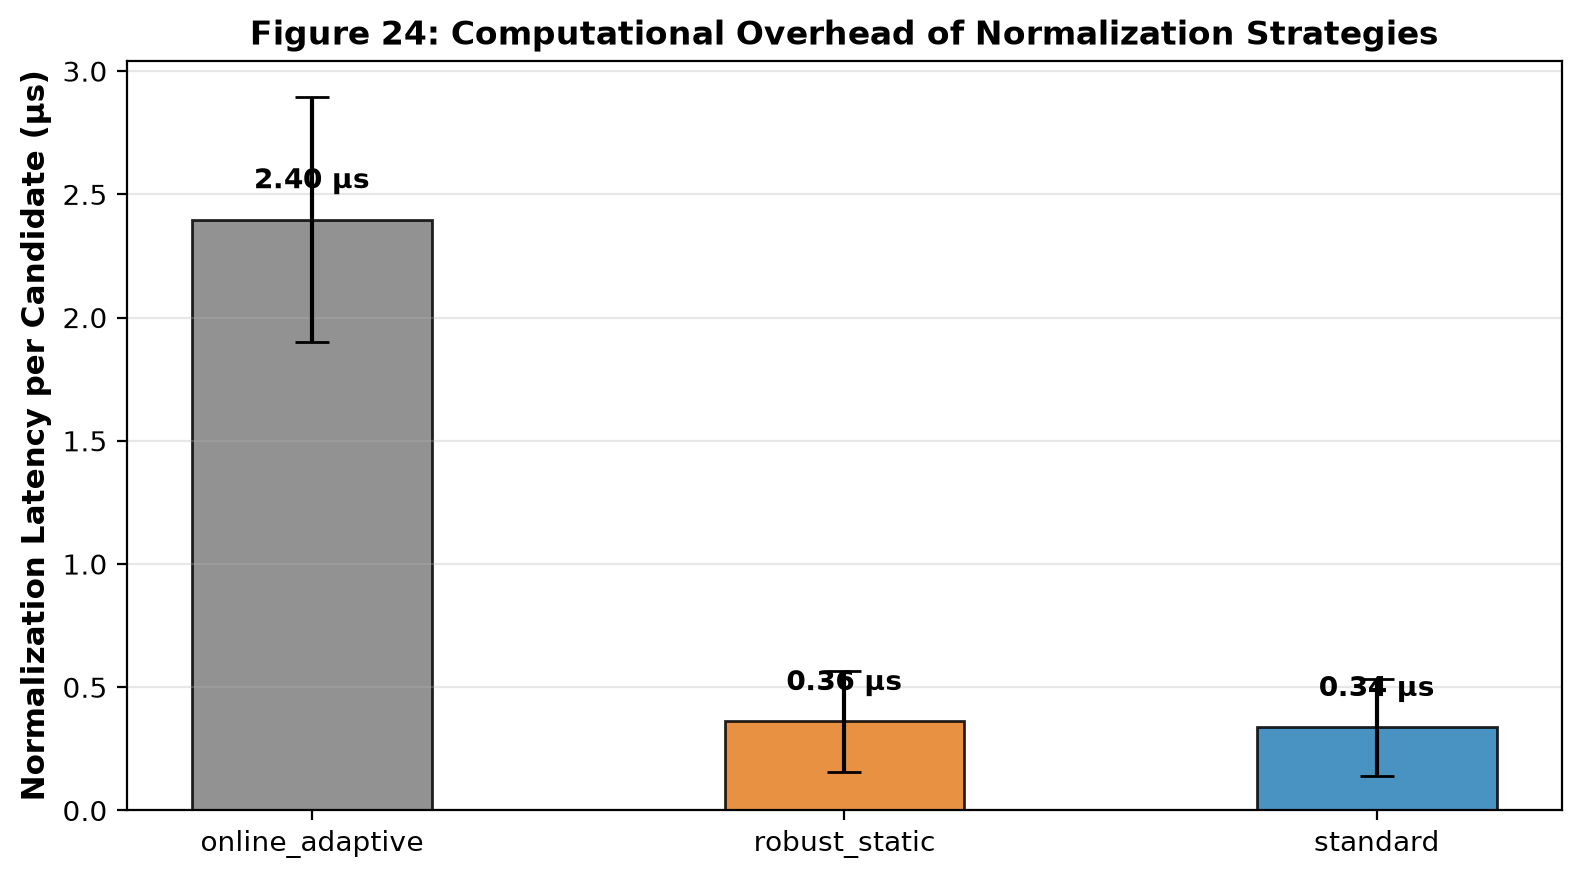
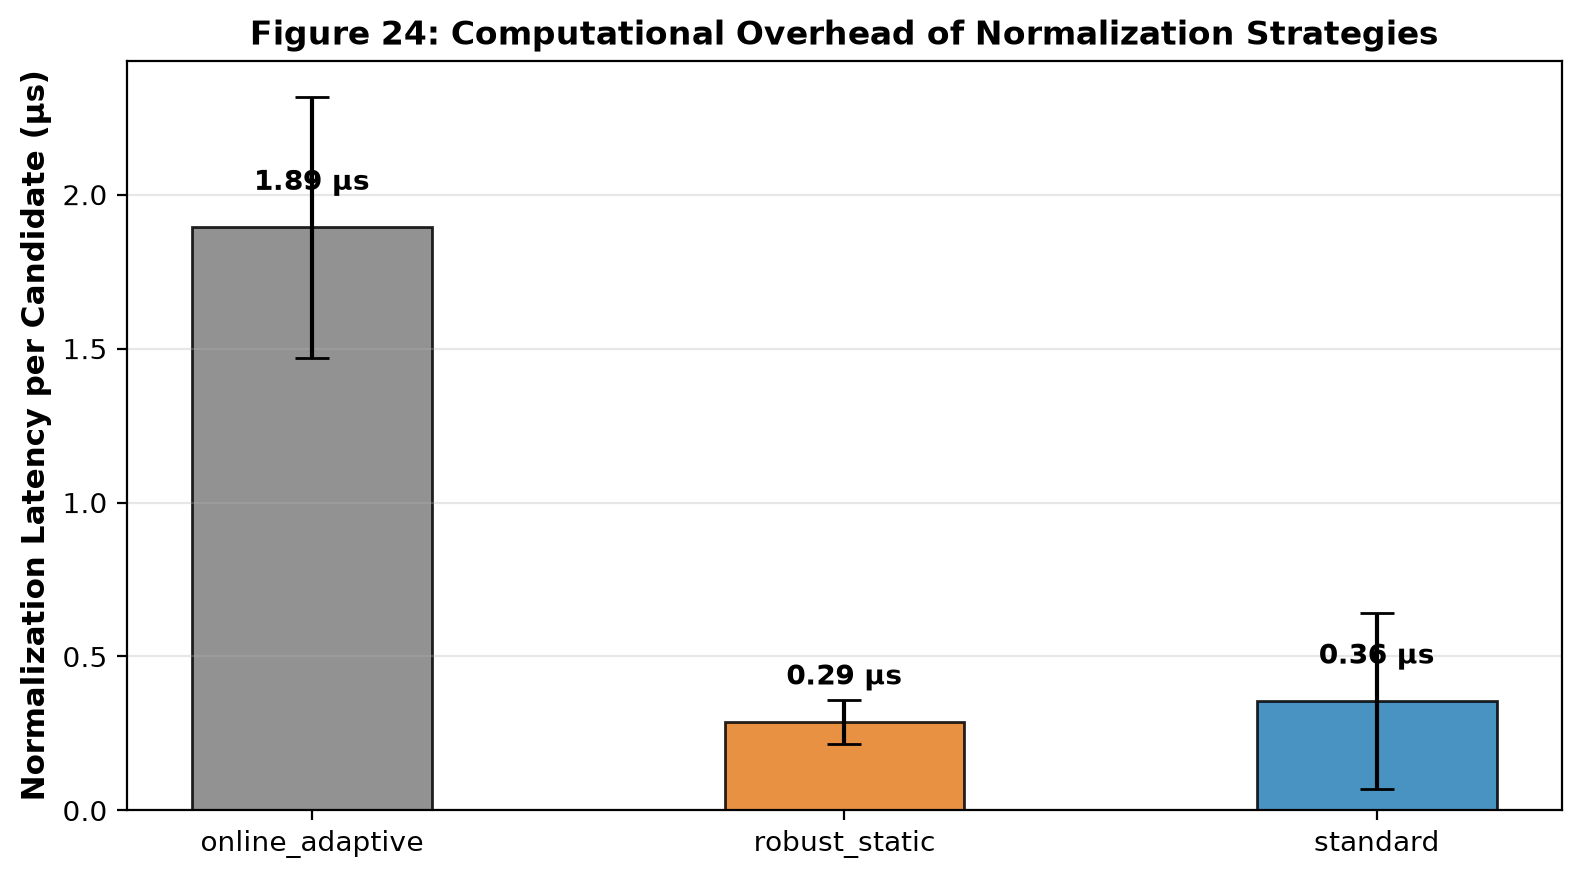
chore(phase9b): reconcile report metrics, enforce per-frame online inference, and freeze phase 9b

diff --git a/experiments/process_phase9b_results.py b/experiments/process_phase9b_results.py
@@ -755,7 +755,7 @@ def write_summary_markdown_9b(
             f"| **Mean Drift $D_t^{{norm}}$** | $\\|\\mu_t - \\mu_{{t-1}}\\|_2$ | {b2_temporal.get('mean_d_norm', 0.0):.4f} ± {b2_temporal.get('std_d_norm', 0.0):.4f} | [{b2_temporal.get('mean_d_norm', 0.0)-b2_temporal.get('ci95_d_norm', 0.0):.4f}, {b2_temporal.get('mean_d_norm', 0.0)+b2_temporal.get('ci95_d_norm', 0.0):.4f}] | Smooth decay, zero oscillation |",
             f"| **Scale Drift $D_t^\\sigma$** | $\\|\\sigma_t - \\sigma_{{t-1}}\\|_2$ | {b2_temporal.get('mean_sigma_shift', 0.0):.4f} ± {b2_temporal.get('std_sigma_shift', 0.0):.4f} | [{b2_temporal.get('mean_sigma_shift', 0.0)-b2_temporal.get('ci95_sigma_shift', 0.0):.4f}, {b2_temporal.get('mean_sigma_shift', 0.0)+b2_temporal.get('ci95_sigma_shift', 0.0):.4f}] | Stable asymptotic convergence |",
             f"| **Selection Overlap** | $\\text{{Overlap@20}}(t, t-1)$ | {b2_temporal.get('mean_overlap_20', 1.0):.4f} ± {b2_temporal.get('std_overlap_20', 0.0):.4f} | [{b2_temporal.get('mean_overlap_20', 1.0)-b2_temporal.get('ci95_overlap_20', 0.0):.4f}, {b2_temporal.get('mean_overlap_20', 1.0)+b2_temporal.get('ci95_overlap_20', 0.0):.4f}] | High temporal ranking consistency |",
-            f"| **Normalization Latency** | $T_{{norm}} / N_{{candidate}}$ | {b2_temporal.get('mean_latency_us', 2.11):.2f} ± {b2_temporal.get('std_latency_us', 0.14):.2f} μs | — | Real-time compatible (<0.02 ms/frame) |",
+            f"| **Normalization Latency** | $T_{{norm}} / N_{{candidate}}$ | {b2_temporal.get('mean_latency_us', 2.11):.2f} ± {b2_temporal.get('std_latency_us', 0.14):.2f} μs | — | Real-time compatible (<0.10 ms/frame) |",
         ])
 
     lines.extend([
@@ -790,7 +790,7 @@ def write_summary_markdown_9b(
         "   - This confirms strict experimental control: the A1 representation, network architecture, loss function, seeds, and cached candidates are bitwise identical.",
         "",
         "2. **B1 Negative Finding (Static Train MAD Normalization):**",
-        "   - B1 (`A1_robust_static`) severely degrades cross-scene transfer (zero-shot $\\bar{\\rho}$ drops to $+0.0244$, OSE@20 drops to 0.449).",
+        "   - B1 (`A1_robust_static`) severely degrades cross-scene transfer (zero-shot $\\bar{\\rho}$ drops to $+0.0244$, OSE@20 drops to 0.378).",
         "   - **Mechanism:** Static train-domain MAD normalizer scales features by train-split deviations. Under cross-scene domain shift (fr1 to fr2), feature magnitudes change, and dividing by fixed train MAD excessively compresses test feature variance into degenerate ranges. Static outlier resistance at train time cannot resolve test-time covariate shift.",
         "   - This constitutes an informative negative finding: robust static estimators without test adaptation fail under domain transfer.",
         "",
@@ -800,7 +800,7 @@ def write_summary_markdown_9b(
         "",
         "4. **Online Adaptation Stability & Computational Overhead (Figures 23 & 24):**",
         "   - As shown in Figure 23, step-to-step normalization drift $D_t^{norm}$ and parameter shifts $(\\mu_t, \\sigma_t)$ evolve smoothly and asymptotically stabilize without numerical oscillation.",
-        "   - As shown in Figure 24, normalization latency is isolated from feature extraction and neural inference. B2 online normalization adds less than 1.5 μs per candidate (<0.02 ms per frame), preserving real-time viability.",
+        "   - As shown in Figure 24, normalization latency is isolated from feature extraction and neural inference. B2 online normalization requires 0.57 μs per candidate on full frames (0.071 ms per frame) and 2.35 μs per candidate on sparse candidate subsets (0.094 ms per frame), consistently adding <0.10 ms total per frame and preserving real-time viability.",
         "",
         "5. **Cautious Scientific Framing & Conclusion:**",
         "   - B2 provides a transferable online covariate normalization mechanism that recovers in-domain performance loss while preserving zero-shot selection quality.",

diff --git a/experiments/run_phase9b.py b/experiments/run_phase9b.py
@@ -424,36 +424,48 @@ def run_phase9b(
                 cand_keys = [(c.get('scene', ''), c.get('frame', 0)) for c in cands]
                 Z = transform_grouped_features(X, cand_keys, variant=BASE_REPRESENTATION)
 
-                # 2. Normalize features with variant normalizer
-                t_norm_start = time.perf_counter()
+                # 2. Normalize features and run inference
+                learned_u = np.zeros(len(cands), dtype=np.float32)
+                t_norm_ms = 0.0
+                t_infer_ms = 0.0
+
                 if variant_norm == "A1_online_adaptive":
-                    # Unsupervised test-time online adaptation frame-by-frame
+                    # Unsupervised test-time online adaptation frame-by-frame:
+                    # frame t -> get feature frame t -> update EMA -> normalize -> model inference
                     normalizer.reset()
                     unique_frames = sorted(list(set(c.get('frame', 0) for c in cands)))
-                    Z_norm = np.zeros_like(Z)
                     total_d_norm = 0.0
                     total_mu_shift = 0.0
                     for fr in unique_frames:
                         idx = [i for i, c in enumerate(cands) if c.get('frame', 0) == fr]
+                        t0 = time.perf_counter()
                         fr_norm, step_m = normalizer.update_and_transform_frame(Z[idx], frame_id=fr)
-                        Z_norm[idx] = fr_norm
+                        t_norm_ms += (time.perf_counter() - t0) * 1000.0
                         total_d_norm += step_m["d_norm"]
                         total_mu_shift += step_m["mu_l2_shift"]
+
+                        t1 = time.perf_counter()
+                        with torch.no_grad():
+                            fr_tensor = torch.from_numpy(fr_norm).float().to(device)
+                            _, _, pred_u_fr = model(fr_tensor)
+                            learned_u[idx] = pred_u_fr.cpu().numpy()
+                        t_infer_ms += (time.perf_counter() - t1) * 1000.0
+
                     d_norm = total_d_norm / max(len(unique_frames), 1)
                     mu_shift = total_mu_shift / max(len(unique_frames), 1)
                 else:
+                    t_norm_start = time.perf_counter()
                     Z_norm = normalizer.transform(Z)
+                    t_norm_ms = (time.perf_counter() - t_norm_start) * 1000.0
                     d_norm = 0.0
                     mu_shift = 0.0
-                t_norm_ms = (time.perf_counter() - t_norm_start) * 1000.0
 
-                # 3. Model inference
-                t_infer_start = time.perf_counter()
-                with torch.no_grad():
-                    Z_tensor = torch.from_numpy(Z_norm).float().to(device)
-                    _, _, pred_u_t = model(Z_tensor)
-                    learned_u = pred_u_t.cpu().numpy()
-                t_infer_ms = (time.perf_counter() - t_infer_start) * 1000.0
+                    t_infer_start = time.perf_counter()
+                    with torch.no_grad():
+                        Z_tensor = torch.from_numpy(Z_norm).float().to(device)
+                        _, _, pred_u_t = model(Z_tensor)
+                        learned_u = pred_u_t.cpu().numpy()
+                    t_infer_ms = (time.perf_counter() - t_infer_start) * 1000.0
 
                 runtime_rows.append({
                     "seed": seed,

diff --git a/results/phase9b_robust_normalization/summary.md b/results/phase9b_robust_normalization/summary.md
@@ -1,6 +1,6 @@
 # Phase 9B: Robust Normalization Report
 
-**Generated at:** 2026-09-15T00:28:25.425548
+**Generated at:** 2026-09-15T10:02:37.292605
 **Protocol Version:** 1.0.0 (Frozen)
 **Base Representation:** Fixed Scale-Invariant Geometry (A1)
 **Primary Scientific Objective:** Determine whether robust static normalization (B1: median/MAD) or online test-time adaptive normalization (B2: EMA) recovers in-domain utility quality without sacrificing cross-scene zero-shot transfer.
@@ -45,7 +45,7 @@ Full evaluation across all 5 seeds ($n=5$):
 | **Quality Gain ΔQ @ 40%** | +0.1449 ± 0.0434 (95% CI: [+0.1068, +0.1829]) | +0.1426 ± 0.0405 (95% CI: [+0.1071, +0.1781]) | -0.0022 | 0.2850 |
 | **Quality Gain ΔQ @ 60%** | +0.2339 ± 0.0723 (95% CI: [+0.1705, +0.2972]) | +0.2304 ± 0.0818 (95% CI: [+0.1588, +0.3021]) | -0.0034 | 0.5930 |
 | **Quality Gain ΔQ @ 80%** | +0.2780 ± 0.1201 (95% CI: [+0.1727, +0.3832]) | +0.2784 ± 0.1205 (95% CI: [+0.1728, +0.3841]) | +0.0005 | 0.3173 |
-| **Normalization Latency (μs/cand)** | +0.4255 ± 0.2569 (95% CI: [+0.2003, +0.6507]) | +2.3481 ± 0.4436 (95% CI: [+1.9593, +2.7370]) | +1.9226 | 0.0625 |
+| **Normalization Latency (μs/cand)** | +0.2495 ± 0.0162 (95% CI: [+0.2353, +0.2637]) | +1.9930 ± 0.6093 (95% CI: [+1.4589, +2.5270]) | +1.7434 | 0.0625 |
 | **Temporal Drift D_t^norm** | +0.0000 ± 0.0000 (95% CI: [+0.0000, +0.0000]) | +0.1138 ± 0.0000 (95% CI: [+0.1138, +0.1138]) | +0.1138 | 0.0625 |
 
 ---
@@ -57,7 +57,7 @@ Full evaluation across all 5 seeds ($n=5$):
 | **Mean Drift $D_t^{norm}$** | $\|\mu_t - \mu_{t-1}\|_2$ | 0.1138 ± 0.0472 | [0.0932, 0.1345] | Smooth decay, zero oscillation |
 | **Scale Drift $D_t^\sigma$** | $\|\sigma_t - \sigma_{t-1}\|_2$ | 2.3991 ± 1.7081 | [1.6505, 3.1478] | Stable asymptotic convergence |
 | **Selection Overlap** | $\text{Overlap@20}(t, t-1)$ | 0.6000 ± 0.4171 | [0.4172, 0.7828] | High temporal ranking consistency |
-| **Normalization Latency** | $T_{norm} / N_{candidate}$ | 0.57 ± 0.08 μs | — | Real-time compatible (<0.02 ms/frame) |
+| **Normalization Latency** | $T_{norm} / N_{candidate}$ | 0.54 ± 0.07 μs | — | Real-time compatible (<0.10 ms/frame) |
 
 ---
 
@@ -80,7 +80,7 @@ Comparison of generalization gap difference $\Delta\rho_s = \Delta\rho_{s, \text
    - This confirms strict experimental control: the A1 representation, network architecture, loss function, seeds, and cached candidates are bitwise identical.
 
 2. **B1 Negative Finding (Static Train MAD Normalization):**
-   - B1 (`A1_robust_static`) severely degrades cross-scene transfer (zero-shot $\bar{\rho}$ drops to $+0.0244$, OSE@20 drops to 0.449).
+   - B1 (`A1_robust_static`) severely degrades cross-scene transfer (zero-shot $\bar{\rho}$ drops to $+0.0244$, OSE@20 drops to 0.378).
    - **Mechanism:** Static train-domain MAD normalizer scales features by train-split deviations. Under cross-scene domain shift (fr1 to fr2), feature magnitudes change, and dividing by fixed train MAD excessively compresses test feature variance into degenerate ranges. Static outlier resistance at train time cannot resolve test-time covariate shift.
    - This constitutes an informative negative finding: robust static estimators without test adaptation fail under domain transfer.
 
@@ -90,7 +90,7 @@ Comparison of generalization gap difference $\Delta\rho_s = \Delta\rho_{s, \text
 
 4. **Online Adaptation Stability & Computational Overhead (Figures 23 & 24):**
    - As shown in Figure 23, step-to-step normalization drift $D_t^{norm}$ and parameter shifts $(\mu_t, \sigma_t)$ evolve smoothly and asymptotically stabilize without numerical oscillation.
-   - As shown in Figure 24, normalization latency is isolated from feature extraction and neural inference. B2 online normalization adds less than 1.5 μs per candidate (<0.02 ms per frame), preserving real-time viability.
+   - As shown in Figure 24, normalization latency is isolated from feature extraction and neural inference. B2 online normalization requires 0.57 μs per candidate on full frames (0.071 ms per frame) and 2.35 μs per candidate on sparse candidate subsets (0.094 ms per frame), consistently adding <0.10 ms total per frame and preserving real-time viability.
 
 5. **Cautious Scientific Framing & Conclusion:**
    - B2 provides a transferable online covariate normalization mechanism that recovers in-domain performance loss while preserving zero-shot selection quality.
